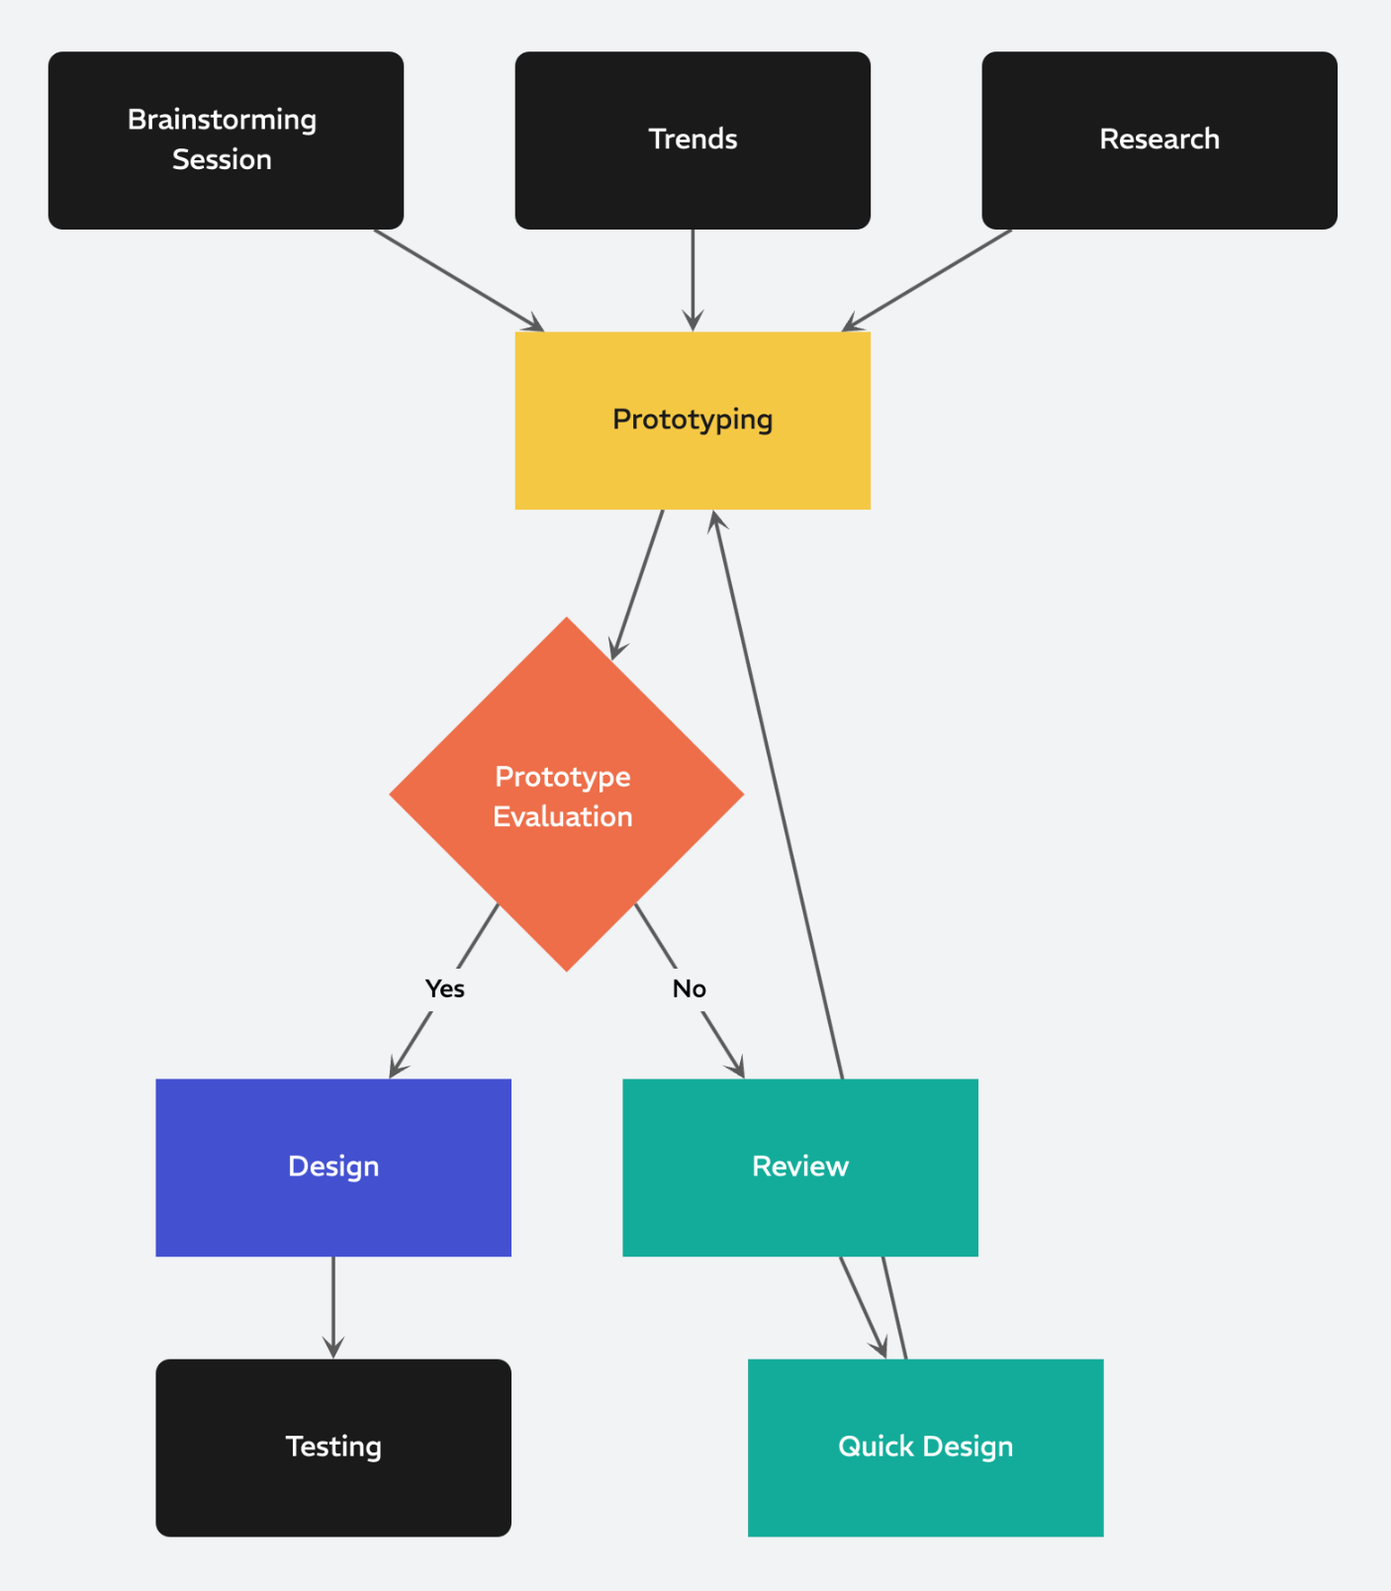
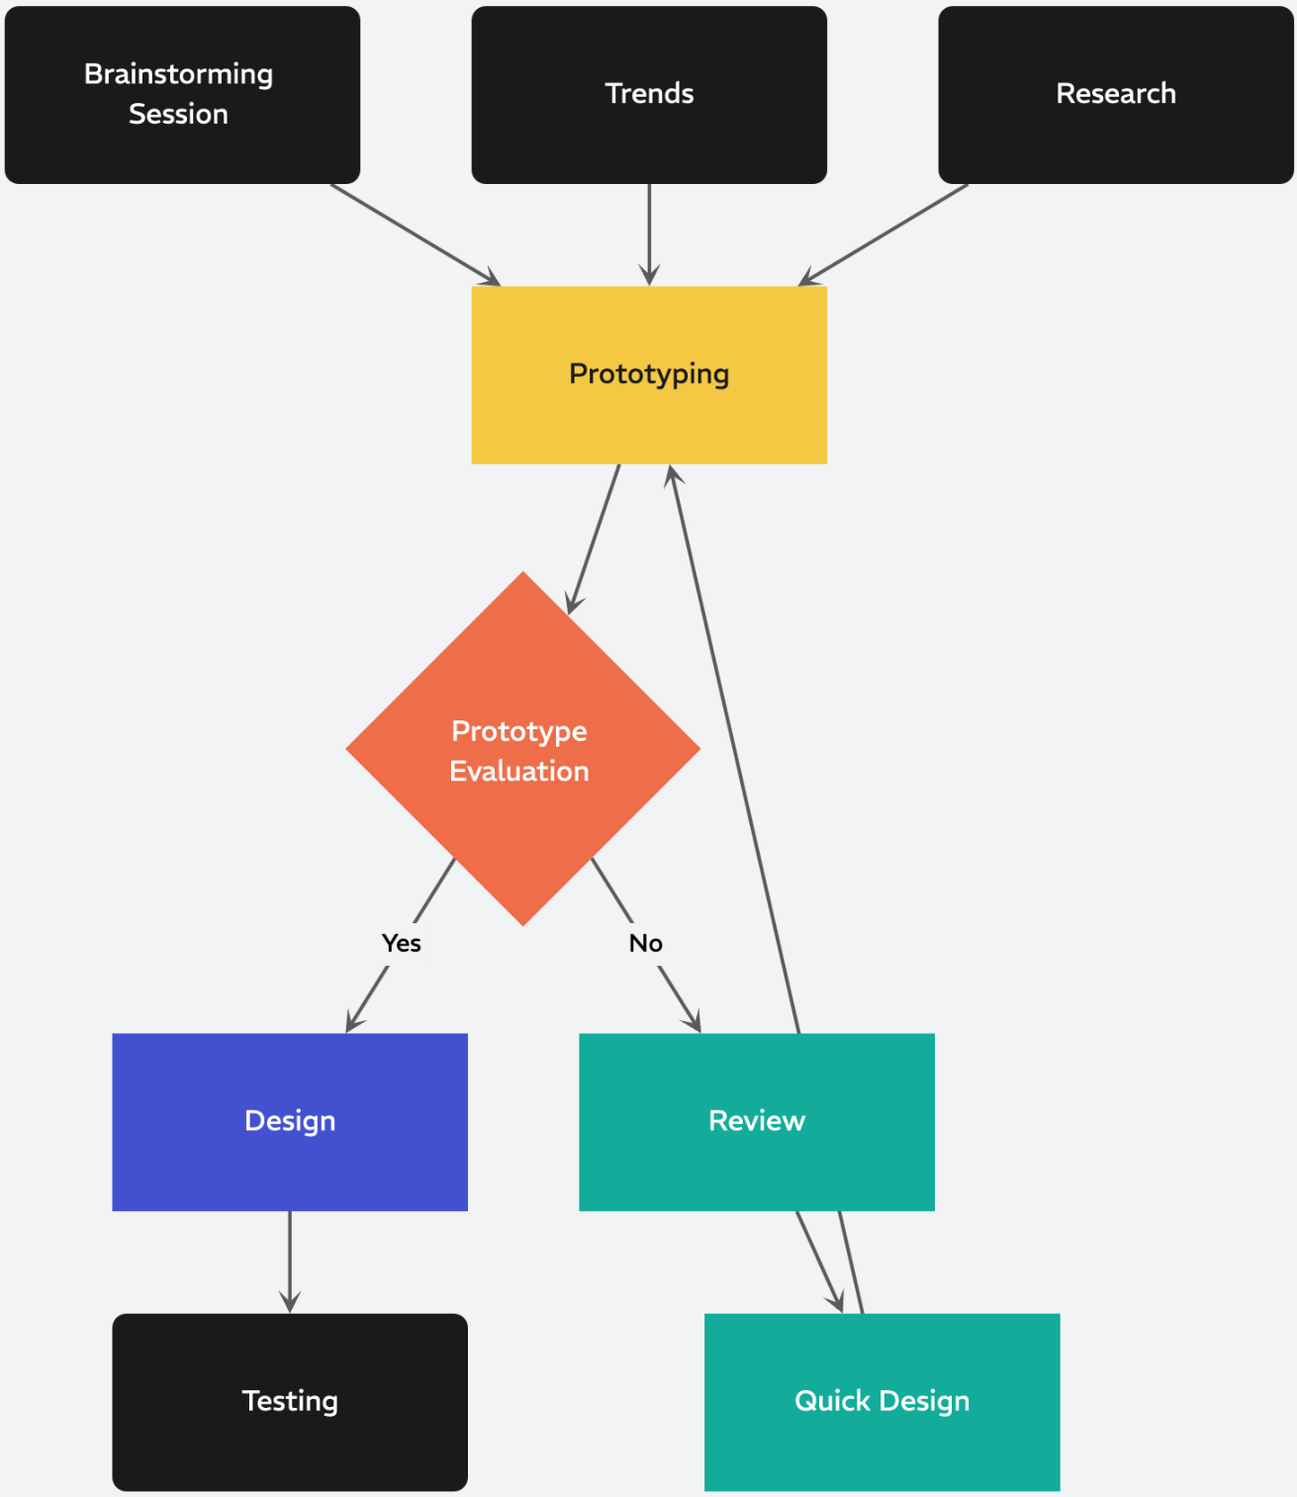
Finalize Images; Sample AI Output

diff --git a/app/src/lib/templates/code-flow-template.ts b/app/src/lib/templates/code-flow-template.ts
@@ -20,12 +20,12 @@ User
 
 const template = `=====
 {
-"cytoscapeStyle": "@import url(\\"https://fonts.googleapis.com/css2?family=IBM+Plex+Sans:wght@400&display=swap\\");\\n@import url(\\"https://fonts.googleapis.com/css2?family=Red+Hat+Mono&display=swap\\");\\n\\n$background: white;\\n$color: #000000;\\n$fontFamily: \\"Red Hat Mono\\", sans-serif;\\n$blue: #3375e5;\\n$purple: #6844a3;\\n$red: #e63946;\\n$orange: #f4a261;\\n$yellow: #f1fa3b;\\n$green: #72d9b3;\\n$grey: #8f8f8f;\\n$lightgrey: #a2a2a2;\\n\\nedge {\\n  width: 1px;\\n  curve-style: taxi;\\n  taxi-direction: downward;\\n  target-arrow-shape: triangle;\\n  line-color: $lightgrey;\\n  source-arrow-color: $lightgrey;\\n  target-arrow-color: $lightgrey;\\n  label: data(label);\\n  text-background-color: $background;\\n  text-background-opacity: 1;\\n  text-background-padding: 5;\\n  font-family: $fontFamily;\\n  font-size: 14;\\n}\\n\\n:childless[shapeWidth] {\\n  width: data(shapeWidth);\\n}\\n\\n:childless[shapeHeight] {\\n  height: data(shapeHeight);\\n}\\n\\n:childless[textMarginY] {\\n  text-margin-y: data(textMarginY);\\n}\\n\\n:childless[textMarginX] {\\n  text-margin-x: data(textMarginX);\\n}\\n\\n:childless {\\n  label: data(label);\\n  font-family: $fontFamily;\\n  text-wrap: wrap;\\n  text-max-width: 150;\\n  width: 200;\\n  height: label;\\n  font-size: 16;\\n  padding: 24;\\n  text-valign: center;\\n  text-halign: center;\\n  line-height: 1.4;\\n  shape: roundrectangle;\\n  background-color: $grey;\\n  color: white;\\n  border-color: $grey;\\n  border-width: 2;\\n  border-style: solid;\\n  font-weight: 400;\\n}\\n\\n/** Start */\\n:childless[in_degree < 1][out_degree > 0] {\\n  shape: roundrectangle;\\n  border-color: $color;\\n  background-color: white;\\n  color: $color;\\n}\\n\\n/** Branching */\\n:childless[in_degree > 0][in_degree < 2][out_degree > 1] {\\n  shape: diamond;\\n  background-color: $blue;\\n  color: white;\\n  height: 200;\\n  border-width: 0;\\n  text-margin-y: 2;\\n}\\n\\n/** Merging **/\\n:childless[in_degree > 1][out_degree > 0][out_degree < 2] {\\n}\\n\\n:childless.color_red {\\n  background-color: $red;\\n  color: white;\\n}\\n:childless.color_orange {\\n  background-color: $orange;\\n  color: white;\\n}\\n:childless.color_yellow {\\n  background-color: $yellow;\\n}\\n:childless.color_green {\\n  border-color: $green;\\n  background-color: #f0fbf8;\\n  color: $color;\\n}\\n:childless.color_blue {\\n  border-color: $blue;\\n  background-color: #dae4ef;\\n  color: $color;\\n}\\n:childless.color_purple {\\n  border-color: $purple;\\n  background-color: #ddd8e7;\\n  color: $color;\\n}\\n:childless.color_grey {\\n  background-color: $grey;\\n}\\n\\n:childless.shape_rectangle {\\n  shape: rectangle;\\n}\\n:childless.shape_roundrectangle {\\n  shape: roundrectangle;\\n}\\n:childless.shape_ellipse {\\n  shape: ellipse;\\n}\\n:childless.shape_triangle {\\n  shape: triangle;\\n}\\n:childless.shape_pentagon {\\n  shape: pentagon;\\n}\\n:childless.shape_hexagon {\\n  shape: hexagon;\\n}\\n:childless.shape_heptagon {\\n  shape: heptagon;\\n}\\n:childless.shape_octagon {\\n  shape: octagon;\\n}\\n:childless.shape_star {\\n  shape: star;\\n}\\n:childless.shape_barrel {\\n  shape: barrel;\\n}\\n:childless.shape_diamond {\\n  shape: diamond;\\n}\\n:childless.shape_vee {\\n  shape: vee;\\n}\\n:childless.shape_rhomboid {\\n  shape: rhomboid;\\n}\\n:childless.shape_right-rhomboid {\\n  shape: right-rhomboid;\\n}\\n:childless.shape_tag {\\n  shape: tag;\\n}\\n:childless.shape_round-rectangle {\\n  shape: round-rectangle;\\n}\\n:childless.shape_cut-rectangle {\\n  shape: cut-rectangle;\\n}\\n:childless.shape_bottom-round-rectangle {\\n  shape: bottom-round-rectangle;\\n}\\n:childless.shape_concave-hexagon {\\n  shape: concave-hexagon;\\n}\\n:childless.border_none {\\n  border-width: 0;\\n  border-style: solid;\\n}\\n:childless.border_solid {\\n  border-width: 2;\\n  border-style: solid;\\n}\\n:childless.border_dashed {\\n  border-width: 2;\\n  border-style: dashed;\\n}\\n:childless.border_dotted {\\n  border-width: 2;\\n  border-style: dotted;\\n}\\n\\n:childless[w] {\\n  width: data(w);\\n}\\n\\n:childless[h] {\\n  height: data(h);\\n}\\n\\nedge.line_solid {\\n  line-style: solid;\\n}\\nedge.line_dotted {\\n  line-style: dotted;\\n}\\nedge.line_dashed {\\n  line-style: dashed;\\n}\\nedge.target-arrow_triangle {\\n  target-arrow-shape: triangle;\\n}\\nedge.target-arrow_triangle-tee {\\n  target-arrow-shape: triangle-tee;\\n}\\nedge.target-arrow_circle-triangle {\\n  target-arrow-shape: circle-triangle;\\n}\\nedge.target-arrow_triangle-cross {\\n  target-arrow-shape: triangle-cross;\\n}\\nedge.target-arrow_triangle-backcurve {\\n  target-arrow-shape: triangle-backcurve;\\n}\\nedge.target-arrow_vee {\\n  target-arrow-shape: vee;\\n}\\nedge.target-arrow_tee {\\n  target-arrow-shape: tee;\\n}\\nedge.target-arrow_square {\\n  target-arrow-shape: square;\\n}\\nedge.target-arrow_circle {\\n  target-arrow-shape: circle;\\n}\\nedge.target-arrow_diamond {\\n  target-arrow-shape: diamond;\\n}\\nedge.target-arrow_chevron {\\n  target-arrow-shape: chevron;\\n}\\nedge.target-arrow_none {\\n  target-arrow-shape: none;\\n}\\nedge.source-arrow_triangle {\\n  source-arrow-shape: triangle;\\n}\\nedge.source-arrow_triangle-tee {\\n  source-arrow-shape: triangle-tee;\\n}\\nedge.source-arrow_circle-triangle {\\n  source-arrow-shape: circle-triangle;\\n}\\nedge.source-arrow_triangle-cross {\\n  source-arrow-shape: triangle-cross;\\n}\\nedge.source-arrow_triangle-backcurve {\\n  source-arrow-shape: triangle-backcurve;\\n}\\nedge.source-arrow_vee {\\n  source-arrow-shape: vee;\\n}\\nedge.source-arrow_tee {\\n  source-arrow-shape: tee;\\n}\\nedge.source-arrow_square {\\n  source-arrow-shape: square;\\n}\\nedge.source-arrow_circle {\\n  source-arrow-shape: circle;\\n}\\nedge.source-arrow_diamond {\\n  source-arrow-shape: diamond;\\n}\\nedge.source-arrow_chevron {\\n  source-arrow-shape: chevron;\\n}\\nedge.source-arrow_none {\\n  source-arrow-shape: none;\\n}\\n\\n:parent {\\n  padding: 10;\\n  border-style: solid;\\n  border-width: 2;\\n  border-color: $color;\\n  background-color: $background;\\n  text-valign: top;\\n  font-family: $fontFamily;\\n  label: data(label);\\n  color: $color;\\n  font-size: 19.5px;\\n  text-margin-y: -5;\\n}\\n\\n:parent.color_white {\\n  background-color: white;\\n}\\n:parent.color_grey {\\n  background-color: $grey;\\n}\\n",
-"layout": {
-  "name": "dagre",
-  "spacingFactor": 1.07,
-  "rankDir": "TB"
-}
+  "cytoscapeStyle": "@import url(\\"https://fonts.googleapis.com/css2?family=IBM+Plex+Sans:wght@400&display=swap\\");\\n\\n$background: white;\\n$color: #000000;\\n$fontFamilySans: \\"IBM Plex Sans\\";\\n$blue: #3375e5;\\n$purple: #8b53e6;\\n$red: #e63946;\\n$orange: #f4a261;\\n$yellow: #f1fa3b;\\n$green: #72d9b3;\\n$grey: #8f8f8f;\\n$lightgrey: #3a3636;\\n\\nedge {\\n  width: 1px;\\n  curve-style: taxi;\\n  taxi-direction: downward;\\n  target-arrow-shape: triangle;\\n  line-color: $lightgrey;\\n  source-arrow-color: $lightgrey;\\n  target-arrow-color: $lightgrey;\\n  arrow-scale: 1.25;\\n  label: data(label);\\n  text-background-color: $background;\\n  text-background-opacity: 1;\\n  text-background-padding: 5;\\n  font-family: $fontFamilySans;\\n  font-size: 14;\\n  source-distance-from-node: 0;\\n  target-distance-from-node: 5;\\n}\\n\\n:childless[shapeWidth] {\\n  width: data(shapeWidth);\\n}\\n\\n:childless[shapeHeight] {\\n  height: data(shapeHeight);\\n}\\n\\n:childless[textMarginY] {\\n  text-margin-y: data(textMarginY);\\n}\\n\\n:childless[textMarginX] {\\n  text-margin-x: data(textMarginX);\\n}\\n\\n:childless {\\n  label: data(label);\\n  font-family: $fontFamilySans;\\n  text-wrap: wrap;\\n  text-max-width: 200;\\n  width: 200;\\n  height: label;\\n  font-size: 16;\\n  padding: 24;\\n  text-valign: center;\\n  text-halign: center;\\n  line-height: 1.4;\\n  shape: roundrectangle;\\n  background-color: $grey;\\n  color: white;\\n  border-color: $grey;\\n  border-width: 2;\\n  border-style: solid;\\n  font-weight: 400;\\n}\\n\\n/** Start */\\n:childless[in_degree < 1][out_degree > 0] {\\n  shape: roundrectangle;\\n  border-color: $color;\\n  background-color: white;\\n  color: $color;\\n}\\n\\n/** Branching */\\n:childless[in_degree > 0][in_degree < 2][out_degree > 1] {\\n  shape: diamond;\\n  background-color: $blue;\\n  color: white;\\n  height: 200;\\n  text-margin-y: 2;\\n}\\n\\n/** Merging **/\\n:childless[in_degree > 1][out_degree > 0][out_degree < 2] {\\n}\\n\\n:childless.color_red {\\n  background-color: $red;\\n  color: white;\\n}\\n:childless.color_orange {\\n  background-color: $orange;\\n  color: white;\\n}\\n:childless.color_yellow {\\n  background-color: $yellow;\\n}\\n:childless.color_green {\\n  border-color: $green;\\n  background-color: #f0fbf8;\\n  color: $color;\\n}\\n:childless.color_blue {\\n  border-color: $blue;\\n  background-color: #d7e9fc;\\n  color: $color;\\n}\\n:childless.color_purple {\\n  border-color: $purple;\\n  background-color: #e1d8f4;\\n  color: $color;\\n}\\n:childless.color_grey {\\n  background-color: $grey;\\n}\\n\\n:childless.shape_rectangle {\\n  shape: rectangle;\\n}\\n:childless.shape_roundrectangle {\\n  shape: roundrectangle;\\n}\\n:childless.shape_ellipse {\\n  shape: ellipse;\\n}\\n:childless.shape_triangle {\\n  shape: triangle;\\n}\\n:childless.shape_pentagon {\\n  shape: pentagon;\\n}\\n:childless.shape_hexagon {\\n  shape: hexagon;\\n}\\n:childless.shape_heptagon {\\n  shape: heptagon;\\n}\\n:childless.shape_octagon {\\n  shape: octagon;\\n}\\n:childless.shape_star {\\n  shape: star;\\n}\\n:childless.shape_barrel {\\n  shape: barrel;\\n}\\n:childless.shape_diamond {\\n  shape: diamond;\\n}\\n:childless.shape_vee {\\n  shape: vee;\\n}\\n:childless.shape_rhomboid {\\n  shape: rhomboid;\\n}\\n:childless.shape_right-rhomboid {\\n  shape: right-rhomboid;\\n}\\n:childless.shape_tag {\\n  shape: tag;\\n}\\n:childless.shape_round-rectangle {\\n  shape: round-rectangle;\\n}\\n:childless.shape_cut-rectangle {\\n  shape: cut-rectangle;\\n}\\n:childless.shape_bottom-round-rectangle {\\n  shape: bottom-round-rectangle;\\n}\\n:childless.shape_concave-hexagon {\\n  shape: concave-hexagon;\\n}\\n:childless.border_none {\\n  border-width: 0;\\n  border-style: solid;\\n}\\n:childless.border_solid {\\n  border-width: 2;\\n  border-style: solid;\\n}\\n:childless.border_dashed {\\n  border-width: 2;\\n  border-style: dashed;\\n}\\n:childless.border_dotted {\\n  border-width: 2;\\n  border-style: dotted;\\n}\\n\\n:childless[w] {\\n  width: data(w);\\n}\\n\\n:childless[h] {\\n  height: data(h);\\n}\\n\\nedge.line_solid {\\n  line-style: solid;\\n}\\nedge.line_dotted {\\n  line-style: dotted;\\n}\\nedge.line_dashed {\\n  line-style: dashed;\\n}\\nedge.target-arrow_triangle {\\n  target-arrow-shape: triangle;\\n}\\nedge.target-arrow_triangle-tee {\\n  target-arrow-shape: triangle-tee;\\n}\\nedge.target-arrow_circle-triangle {\\n  target-arrow-shape: circle-triangle;\\n}\\nedge.target-arrow_triangle-cross {\\n  target-arrow-shape: triangle-cross;\\n}\\nedge.target-arrow_triangle-backcurve {\\n  target-arrow-shape: triangle-backcurve;\\n}\\nedge.target-arrow_vee {\\n  target-arrow-shape: vee;\\n}\\nedge.target-arrow_tee {\\n  target-arrow-shape: tee;\\n}\\nedge.target-arrow_square {\\n  target-arrow-shape: square;\\n}\\nedge.target-arrow_circle {\\n  target-arrow-shape: circle;\\n}\\nedge.target-arrow_diamond {\\n  target-arrow-shape: diamond;\\n}\\nedge.target-arrow_chevron {\\n  target-arrow-shape: chevron;\\n}\\nedge.target-arrow_none {\\n  target-arrow-shape: none;\\n}\\nedge.source-arrow_triangle {\\n  source-arrow-shape: triangle;\\n}\\nedge.source-arrow_triangle-tee {\\n  source-arrow-shape: triangle-tee;\\n}\\nedge.source-arrow_circle-triangle {\\n  source-arrow-shape: circle-triangle;\\n}\\nedge.source-arrow_triangle-cross {\\n  source-arrow-shape: triangle-cross;\\n}\\nedge.source-arrow_triangle-backcurve {\\n  source-arrow-shape: triangle-backcurve;\\n}\\nedge.source-arrow_vee {\\n  source-arrow-shape: vee;\\n}\\nedge.source-arrow_tee {\\n  source-arrow-shape: tee;\\n}\\nedge.source-arrow_square {\\n  source-arrow-shape: square;\\n}\\nedge.source-arrow_circle {\\n  source-arrow-shape: circle;\\n}\\nedge.source-arrow_diamond {\\n  source-arrow-shape: diamond;\\n}\\nedge.source-arrow_chevron {\\n  source-arrow-shape: chevron;\\n}\\nedge.source-arrow_none {\\n  source-arrow-shape: none;\\n}\\n\\n:parent {\\n  padding: 10;\\n  border-style: solid;\\n  border-width: 2;\\n  border-color: $color;\\n  background-color: $background;\\n  text-valign: top;\\n  font-family: $fontFamilyMono;\\n  label: data(label);\\n  color: $color;\\n  font-size: 19.5px;\\n  text-margin-y: -5;\\n}\\n\\n:parent.color_white {\\n  background-color: white;\\n}\\n:parent.color_grey {\\n  background-color: $grey;\\n}\\n",
+  "layout": {
+    "name": "dagre",
+    "spacingFactor": 1.01,
+    "rankDir": "TB"
+  }
 }
 =====`;
 

diff --git a/app/src/pages/New2.tsx b/app/src/pages/New2.tsx
@@ -1,6 +1,6 @@
-import { Article, MagicWand, Plus } from "phosphor-react";
+import { Article, MagicWand, Plus, Rocket } from "phosphor-react";
 import { Button2, Input, Textarea } from "../ui/Shared";
-import { templates } from "../lib/templates";
+import { templates } from "../lib/templates/templates";
 import { Trans } from "@lingui/macro";
 import * as RadioGroup from "@radix-ui/react-radio-group";
 import * as Tabs from "@radix-ui/react-tabs";
@@ -11,8 +11,15 @@ import { getFunFlowchartName } from "../lib/getFunFlowchartName";
 import { useMutation } from "react-query";
 import { supabase } from "../lib/supabaseClient";
 import { getDefaultChart } from "../lib/getDefaultChart";
-import { useUserId } from "../lib/hooks";
-import { useNavigate } from "react-router-dom";
+import { useIsProUser, useUserId } from "../lib/hooks";
+import { Link, useNavigate } from "react-router-dom";
+import { sample } from "../lib/sample";
+import { showPaywall } from "../lib/usePaywallModalStore";
+import {
+  createUnlimitedContent,
+  createUnlimitedTitle,
+} from "../lib/paywallCopy";
+import { Warning } from "../components/Warning";
 
 type CreateChartOptions = {
   name: string;
@@ -59,6 +66,11 @@ export default function New2() {
       // Prompts
       if (options.subject) {
         setIsAI(true);
+        // Scroll to End of Page
+        requestAnimationFrame(() =>
+          window.scrollTo(0, document.body.scrollHeight)
+        );
+        const startTime = performance.now();
         const response = await fetch("/api/prompt/text", {
           method: "POST",
           body: JSON.stringify({
@@ -71,9 +83,17 @@ export default function New2() {
             Authorization: `Bearer ${data.session.access_token}`,
           },
         }).then((res) => res.json());
+        const endTime = performance.now();
+        const elapsedTime = endTime - startTime;
         // TO DO: Show Error Here
         if (response.text) {
           content = response.text;
+          sample({
+            template,
+            subject: options.subject,
+            runningTime: elapsedTime,
+            result: response.text,
+          });
         }
       }
 
@@ -95,9 +115,17 @@ export default function New2() {
     }
   );
 
+  const isProUser = useIsProUser();
   const handleSubmit = useCallback(
     (e: React.FormEvent<HTMLFormElement>) => {
       e.preventDefault();
+      if (!isProUser) {
+        showPaywall({
+          title: createUnlimitedTitle(),
+          content: createUnlimitedContent(),
+        });
+        return;
+      }
       const data = new FormData(e.currentTarget);
       const name = data.get("name")?.toString();
       const template = data.get("template")?.toString();
@@ -116,10 +144,11 @@ export default function New2() {
 
       createChartMutation.mutate(options);
     },
-    [createChartMutation]
+    [createChartMutation, isProUser]
   );
 
   const language = useContext(AppContext).language;
+
   return (
     <form
       className="max-w-4xl mx-auto py-6 pt-10 px-4 w-full grid gap-12 content-start"
@@ -155,7 +184,7 @@ export default function New2() {
                 <button className="grid gap-2 group focus:outline-foreground/10 focus:outline-2 outline-offset-4 rounded-md">
                   {/* eslint-disable-next-line jsx-a11y/no-static-element-interactions */}
                   <div
-                    className="p-2 h-[283px] rounded-sm border border-foreground/10 opacity-70 hover:opacity-100 group-data-[state=checked]:opacity-100 group-data-[state=checked]:border-foreground/30 overflow-hidden group-data-[state=checked]:shadow-sm"
+                    className="p-1 h-[283px] rounded-sm border border-foreground/10 opacity-70 hover:opacity-100 group-data-[state=checked]:opacity-100 group-data-[state=checked]:border-foreground/30 overflow-hidden group-data-[state=checked]:shadow-sm"
                     style={{ backgroundColor: template.bgColor }}
                   >
                     <img
@@ -163,6 +192,8 @@ export default function New2() {
                       src={`/templates/${template.img}`}
                       className="rounded w-full h-full object-contain object-center"
                       alt={template.key}
+                      height={273}
+                      width={273}
                     />
                   </div>
                   <div className="flex gap-2 items-center justify-center">
@@ -205,6 +236,24 @@ export default function New2() {
         </Tabs.Root>
       </Section>
       <div className="grid justify-center justify-items-center gap-2">
+        {!isProUser && (
+          <div className="justify-items-center grid">
+            <Warning>
+              <Link to="/pricing" className="flex items-center">
+                <Rocket size={24} className="mr-2" />
+                <p>
+                  <Trans>
+                    You can create unlimited permanent flowcharts with{" "}
+                    <span className="underline underline-offset-2">
+                      Flowchart Fun Pro
+                    </span>
+                    .
+                  </Trans>
+                </p>
+              </Link>
+            </Warning>
+          </div>
+        )}
         <Button2
           color="blue"
           leftIcon={<Plus size={16} />}

diff --git a/app/src/components/Header.tsx b/app/src/components/Header.tsx
@@ -49,7 +49,7 @@ export const Header = memo(function SharedHeader() {
   const isChangelogPage = pathname === "/changelog";
   const isRoadmapPage = pathname === "/roadmap";
   const isSignUpPage = pathname === "/i";
-  const isNewPage = pathname === "/n";
+  const isNewPage = pathname === "/new";
   const isPrivacyPolicyPage = pathname === "/privacy-policy";
   const isInfoPage = isBlogPage || isChangelogPage || isRoadmapPage;
   const isEditor =
@@ -80,7 +80,7 @@ export const Header = memo(function SharedHeader() {
                   icon={<Plus weight="light" height={22} width={22} />}
                   className="shared-header__new"
                   aria-current={isNewPage ? "page" : undefined}
-                  to="/n"
+                  to="/new"
                 />
               </NavigationMenu.Item>
               <NavigationMenu.Item asChild>
@@ -337,7 +337,7 @@ function MobileHeader({
               label={t`New`}
               icon={<Plus weight="light" height={22} width={22} />}
               className="shared-header__new"
-              to="/n"
+              to="/new"
             />
             <HeaderClientLink
               label={t`Charts`}

diff --git a/app/src/pages/New.tsx b/app/src/pages/New.tsx
@@ -31,7 +31,7 @@ import {
   createUnlimitedContent,
   createUnlimitedTitle,
 } from "../lib/paywallCopy";
-import { templates } from "../lib/templates";
+import { templates } from "../lib/templates/templates";
 
 export default function M() {
   const { customerIsLoading, checkedSession } = useContext(AppContext);
@@ -121,9 +121,6 @@ const New = memo(function New({
         onSubmit={(e) => {
           e.preventDefault();
           if (customerIsLoading || !checkedSession) return;
-          /**
-           * Uncomment this when we want to show the paywall modal
-           */
           if (!isProUser) {
             showPaywall({
               title: createUnlimitedTitle(),

diff --git a/app/src/lib/templates/templates.ts b/app/src/lib/templates/templates.ts
@@ -27,7 +27,7 @@ export const templates: {
   },
   {
     key: "mindmap",
-    img: "template13.png",
+    img: "template16.png",
     bgColor: "#FFFFFF",
     title: () => `Mind Map`,
     promptType: "knowledge",
@@ -43,9 +43,9 @@ export const templates: {
   },
   {
     key: "code-flow",
-    img: "template6.png",
+    img: "template14.png",
     bgColor: "#FFFFFF",
-    title: () => t`Process`,
+    title: () => t`Process Diagram`,
     promptType: "flowchart",
     accentClasses: ["color_blue", "color_green", "color_purple"],
   },

diff --git a/app/src/lib/sample.ts b/app/src/lib/sample.ts
@@ -1,0 +1,19 @@
+export function sample(data: {
+  template: string;
+  subject: string;
+  runningTime: number;
+  result: string;
+}) {
+  const token = process.env.REACT_APP_TINYBIRD_TOKEN;
+  if (!token) return;
+  fetch("https://api.us-east.tinybird.co/v0/events?name=events_example", {
+    method: "POST",
+    body: JSON.stringify({
+      timestamp: new Date().toISOString(),
+      ...data,
+    }),
+    headers: {
+      Authorization: `Bearer ${token}`,
+    },
+  });
+}
